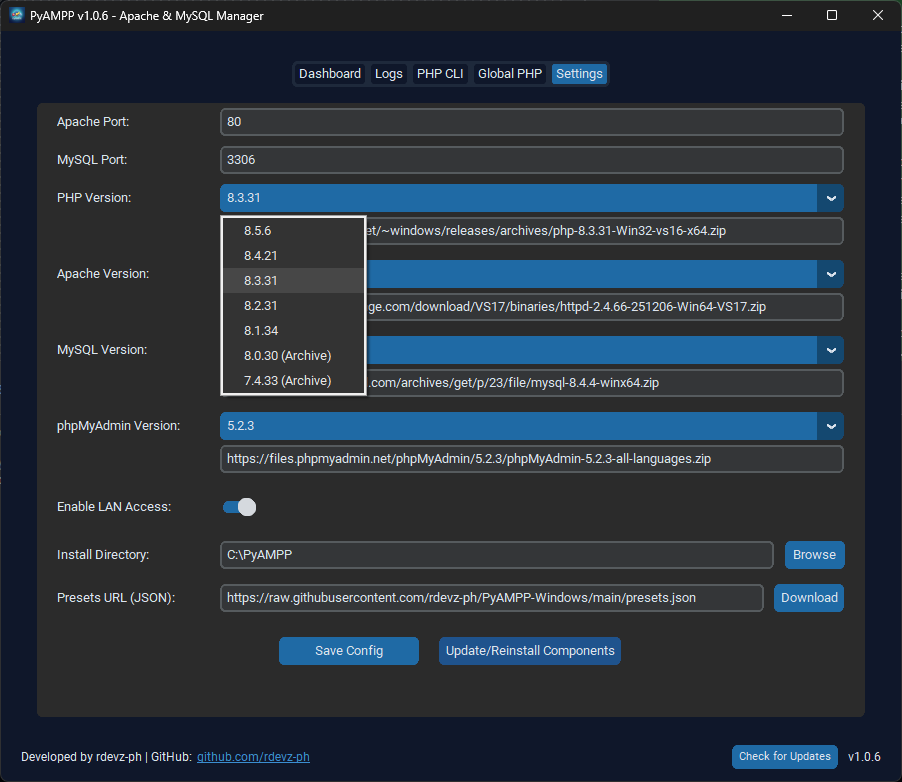
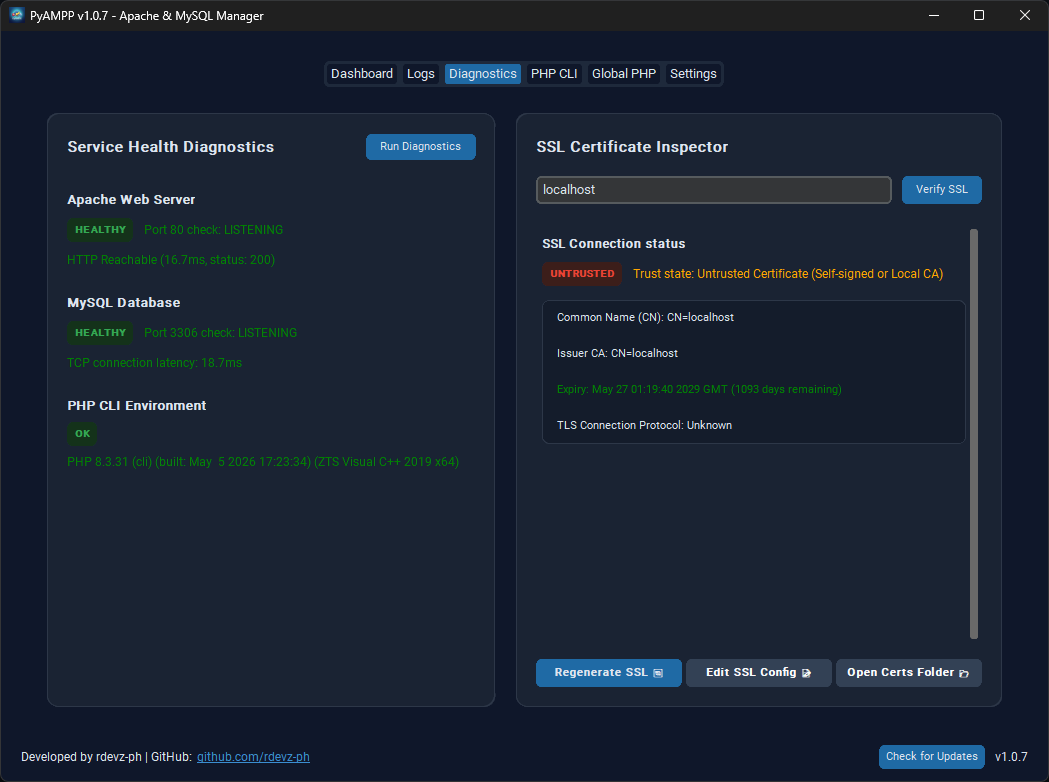
chore: update changelog for v1.0.7 release and modify README for version support

diff --git a/docs/index.html b/docs/index.html
@@ -38,7 +38,7 @@
             </div>
             <div class="screenshot-container">
                 <img src="images/Screenshot-1.png" alt="PyAMPP Dashboard">
-                <img src="images/Screenshot-2.png" alt="PyAMPP Settings">
+                <img src="images/Screenshot-2.png" alt="PyAMPP Diagnostic">
             </div>
         </div>
     </div>
@@ -71,12 +71,17 @@
 
             <section id="download">
                 <h2>Download</h2>
-                <p>The latest stable version of PyAMPP is available as a standalone executable. You can download it directly from our official releases page on GitHub.</p>
+                <p>The latest stable version of PyAMPP is available as a standalone executable. You can download it
+                    directly from our official releases page on GitHub.</p>
                 <div class="warning-box">
                     <strong>Warning</strong>
-                    This tool is currently under development and may contain bugs or be unstable as it is maintained by a solo developer. If you encounter any issues, please state your current application version and <a href="https://github.com/rdevz-ph/PyAMPP-Windows/issues" style="color: var(--accent);">open an issue</a>.
+                    This tool is currently under development and may contain bugs or be unstable as it is maintained by
+                    a solo developer. If you encounter any issues, please state your current application version and <a
+                        href="https://github.com/rdevz-ph/PyAMPP-Windows/issues" style="color: var(--accent);">open an
+                        issue</a>.
                 </div>
-                <a href="https://github.com/rdevz-ph/PyAMPP-Windows/releases" class="download-button">View All Releases</a>
+                <a href="https://github.com/rdevz-ph/PyAMPP-Windows/releases" class="download-button">View All
+                    Releases</a>
             </section>
 
             <section id="features">
@@ -84,19 +89,24 @@
                 <div class="feature-grid">
                     <div class="feature-card">
                         <h4>Version Preset Selection</h4>
-                        <p>Choose from a curated list of verified component versions. From legacy PHP 7.4 to the latest 8.5, PyAMPP handles the complex configuration automatically.</p>
+                        <p>Choose from a curated list of verified component versions. From legacy PHP 7.4 to the latest
+                            8.5, PyAMPP handles the complex configuration automatically.</p>
                     </div>
                     <div class="feature-card">
                         <h4>Hardened Process Isolation</h4>
-                        <p>Improved execution logic prevents DLL conflicts (like <code>VCRUNTIME140.dll</code> mismatches) by running services in a strictly isolated environment.</p>
+                        <p>Improved execution logic prevents DLL conflicts (like <code>VCRUNTIME140.dll</code>
+                            mismatches) by running services in a strictly isolated environment.</p>
                     </div>
                     <div class="feature-card">
                         <h4>Smart Reinstallation</h4>
-                        <p>Perform clean updates of binaries while strictly preserving your MySQL data directories, preventing "version soup" and ensuring environment stability.</p>
+                        <p>Perform clean updates of binaries while strictly preserving your MySQL data directories,
+                            preventing "version soup" and ensuring environment stability.</p>
                     </div>
                     <div class="feature-card">
                         <h4>Intelligent Module Mapping</h4>
-                        <p>Dynamically detects and maps the correct PHP module (e.g., <code>php7_module</code> vs <code>php_module</code>) based on the active version selection.</p>
+                        <p>Dynamically detects and maps the correct PHP module (e.g., <code>php7_module</code> vs
+                            <code>php_module</code>) based on the active version selection.
+                        </p>
                     </div>
                     <div class="feature-card">
                         <h4>Intelligent PHP Configuration</h4>
@@ -124,10 +134,13 @@
 
             <section id="presets">
                 <h2>Supported Versions (Presets)</h2>
-                <p>PyAMPP v1.0.6 supports a wide range of verified component versions out of the box. For transparency, all official binary download URLs are documented in the <code>presets.json</code> file within the repository.</p>
+                <p>PyAMPP v1.0.7 supports a wide range of verified component versions out of the box. For transparency,
+                    all official binary download URLs are documented in the <code>presets.json</code> file within the
+                    repository.</p>
                 <div class="preset-container">
                     <ul>
-                        <li><strong>PHP:</strong> 8.5.6 (VS17), 8.4.21, 8.3.31, 8.2.31, 8.1.34, 8.0.30 (Archive), 7.4.33 (Archive)</li>
+                        <li><strong>PHP:</strong> 8.5.6 (VS17), 8.4.21, 8.3.31, 8.2.31, 8.1.34, 8.0.30 (Archive), 7.4.33
+                            (Archive)</li>
                         <li><strong>Apache:</strong> 2.4.66 (VS17)</li>
                         <li><strong>MySQL:</strong> 8.4.4 (LTS), 8.0.40, 5.7.44</li>
                         <li><strong>phpMyAdmin:</strong> 5.2.3, 5.2.2, 5.2.1</li>
@@ -144,7 +157,8 @@
                         look.</li>
                     <li><strong>Networking:</strong> Synchronous socket-based port monitoring and automated subnet
                         detection.</li>
-                    <li><strong>Architecture:</strong> 64-bit optimized (VS17 Runtimes) with hardened isolation logic.</li>
+                    <li><strong>Architecture:</strong> 64-bit optimized (VS17 Runtimes) with hardened isolation logic.
+                    </li>
                     <li><strong>Process Isolation:</strong> Detached process trees to ensure services remain stable
                         independently of the GUI state.</li>
                 </ul>
@@ -156,7 +170,8 @@
                 <ul>
                     <li><strong>Core Layer:</strong> Encapsulates binary management, configuration templating (Apache
                         <code>httpd.conf</code>, MySQL <code>my.ini</code>, PHP <code>php.ini</code>), and low-level
-                        process control.</li>
+                        process control.
+                    </li>
                     <li><strong>GUI Layer:</strong> Modular interface components (Dashboard, Setup Wizard, Settings,
                         Global PHP Setup, and Log Aggregator).</li>
                     <li><strong>Automation Layer:</strong> PowerShell scripts for system-level integrations and
@@ -168,19 +183,28 @@
                 <h2>Frequently Asked Questions</h2>
                 <div class="faq-item">
                     <h4>Why use PyAMPP instead of a modern Docker-based setup?</h4>
-                    <p>While Docker is extremely powerful, it can feel resource-heavy and consume significant storage, especially when building and maintaining multiple containers. PyAMPP provides a lightweight, portable alternative that is much faster to initialize and easier to manage for standard PHP development without the overhead of virtualization.</p>
+                    <p>While Docker is extremely powerful, it can feel resource-heavy and consume significant storage,
+                        especially when building and maintaining multiple containers. PyAMPP provides a lightweight,
+                        portable alternative that is much faster to initialize and easier to manage for standard PHP
+                        development without the overhead of virtualization.</p>
                 </div>
                 <div class="faq-item">
                     <h4>Is PyAMPP really portable?</h4>
-                    <p>Yes. The application executable is portable; however, dependencies are stored in the chosen installation directory. If you move the application folder, simply update the installation directory settings within the app to ensure everything continues to work seamlessly.</p>
+                    <p>Yes. The application executable is portable; however, dependencies are stored in the chosen
+                        installation directory. If you move the application folder, simply update the installation
+                        directory settings within the app to ensure everything continues to work seamlessly.</p>
                 </div>
                 <div class="faq-item">
                     <h4>Can I add my own custom PHP or MySQL versions?</h4>
-                    <p>Currently, PyAMPP uses verified presets defined in <code>presets.json</code> to ensure compatibility and automated configuration. Manual additions are possible by modifying the presets file, though official support is limited to the versions listed.</p>
+                    <p>Currently, PyAMPP uses verified presets defined in <code>presets.json</code> to ensure
+                        compatibility and automated configuration. Manual additions are possible by modifying the
+                        presets file, though official support is limited to the versions listed.</p>
                 </div>
                 <div class="faq-item">
                     <h4>Does it require Administrator privileges?</h4>
-                    <p>Admin privileges are generally not required for basic operation, though they may be needed for specific automation tasks like registering PHP to the System PATH or toggling certain network firewall rules.</p>
+                    <p>Admin privileges are generally not required for basic operation, though they may be needed for
+                        specific automation tasks like registering PHP to the System PATH or toggling certain network
+                        firewall rules.</p>
                 </div>
             </section>
 

diff --git a/README.md b/README.md
@@ -45,7 +45,7 @@ The latest stable version of PyAMPP can be downloaded from the official [Release
 
 ## Supported Versions (Presets)
 
-PyAMPP v1.0.6 supports a wide range of verified component versions. For full transparency, you can verify all official binary download URLs in the [presets.json](presets.json) file:
+PyAMPP v1.0.7 supports a wide range of verified component versions. For full transparency, you can verify all official binary download URLs in the [presets.json](presets.json) file:
 
 - **PHP:** 8.5.6 (VS17), 8.4.21, 8.3.31, 8.2.31, 8.1.34, 8.0.30 (Archive), and 7.4.33 (Archive).
 - **Apache:** 2.4.66 (VS17).
@@ -54,9 +54,9 @@ PyAMPP v1.0.6 supports a wide range of verified component versions. For full tra
 
 ## Visual Interface
 
-| Dashboard | Settings |
+| Dashboard | Diagnostics |
 | :---: | :---: |
-| ![PyAMPP Dashboard](screenshots/Screenshot-1.png) | ![PyAMPP Settings](screenshots/Screenshot-2.png) |
+| ![PyAMPP Dashboard](screenshots/Screenshot-1.png) | ![PyAMPP Diagnostics](screenshots/Screenshot-2.png) |
 
 *The centralized dashboard provides real-time monitoring and one-click control over the entire development stack, while the settings panel allows for granular environment customization.*
 

diff --git a/CHANGELOG.md b/CHANGELOG.md
@@ -2,6 +2,12 @@
 
 All notable changes to PyAMPP will be documented in this file.
 
+## [1.0.7] - 2026-05-30
+### Added
+* **Diagnostics & SSL Checker Tab**: Integrated a real-time HTTP reachability/latency scanner, MySQL database TCP tests, PHP CLI execution checks, and a detailed SSL certificate inspector.
+* **One-Click SSL Auto-Fixer & Regenerator**: Automatically generates local development self-signed keys/certificates, registers virtual host SSL directives in Apache on port 443, and supports manual one-click regeneration, active SSL configuration file editing, and direct certificate directory exploration.
+* **Htdocs Shortcut Button**: Added a dedicated `Htdocs 📁` button in the Apache Web Server control card footer, allowing one-click access to the Apache server root directory.
+
 ## [1.0.6] - 2026-05-27
 ### Added
 * **Premium Card-Based Dashboard**: Revamped the row-based environment control panel into a high-end, visual control center with unified Slate 900 backgrounds and custom card frames.
